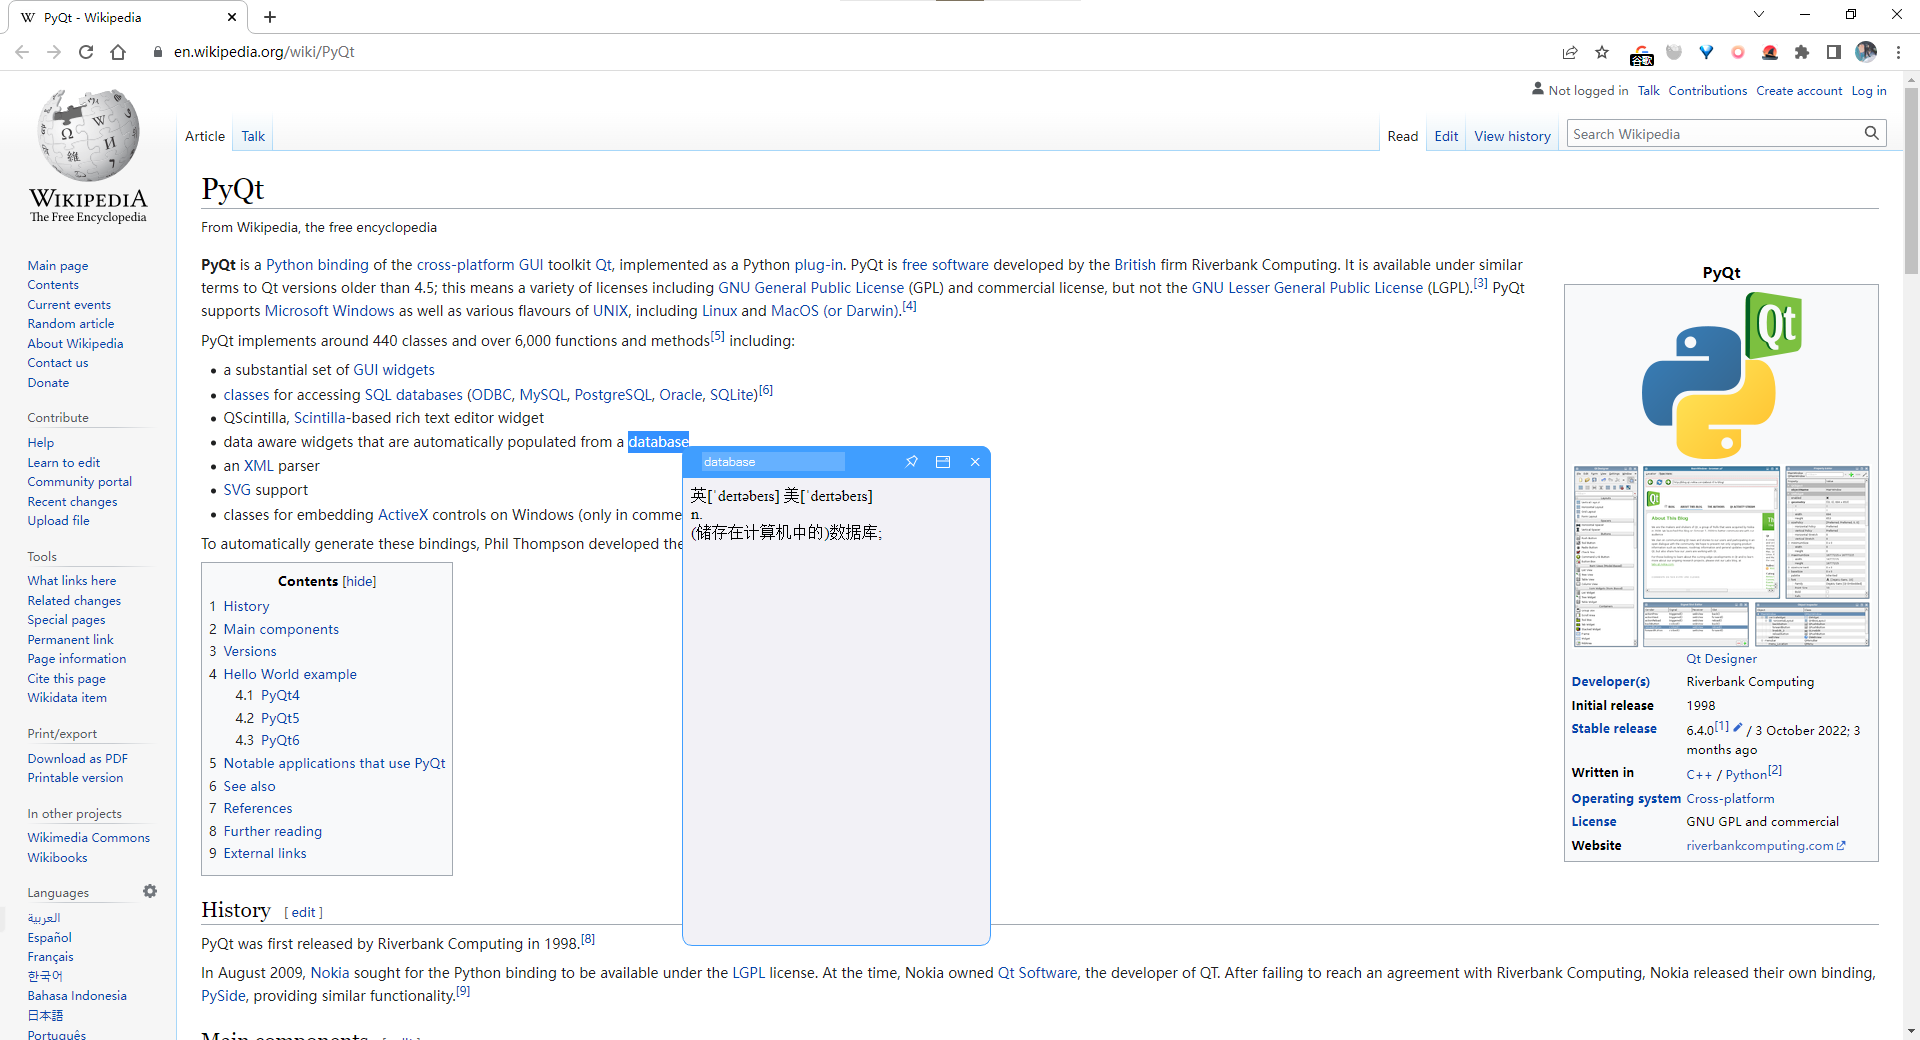
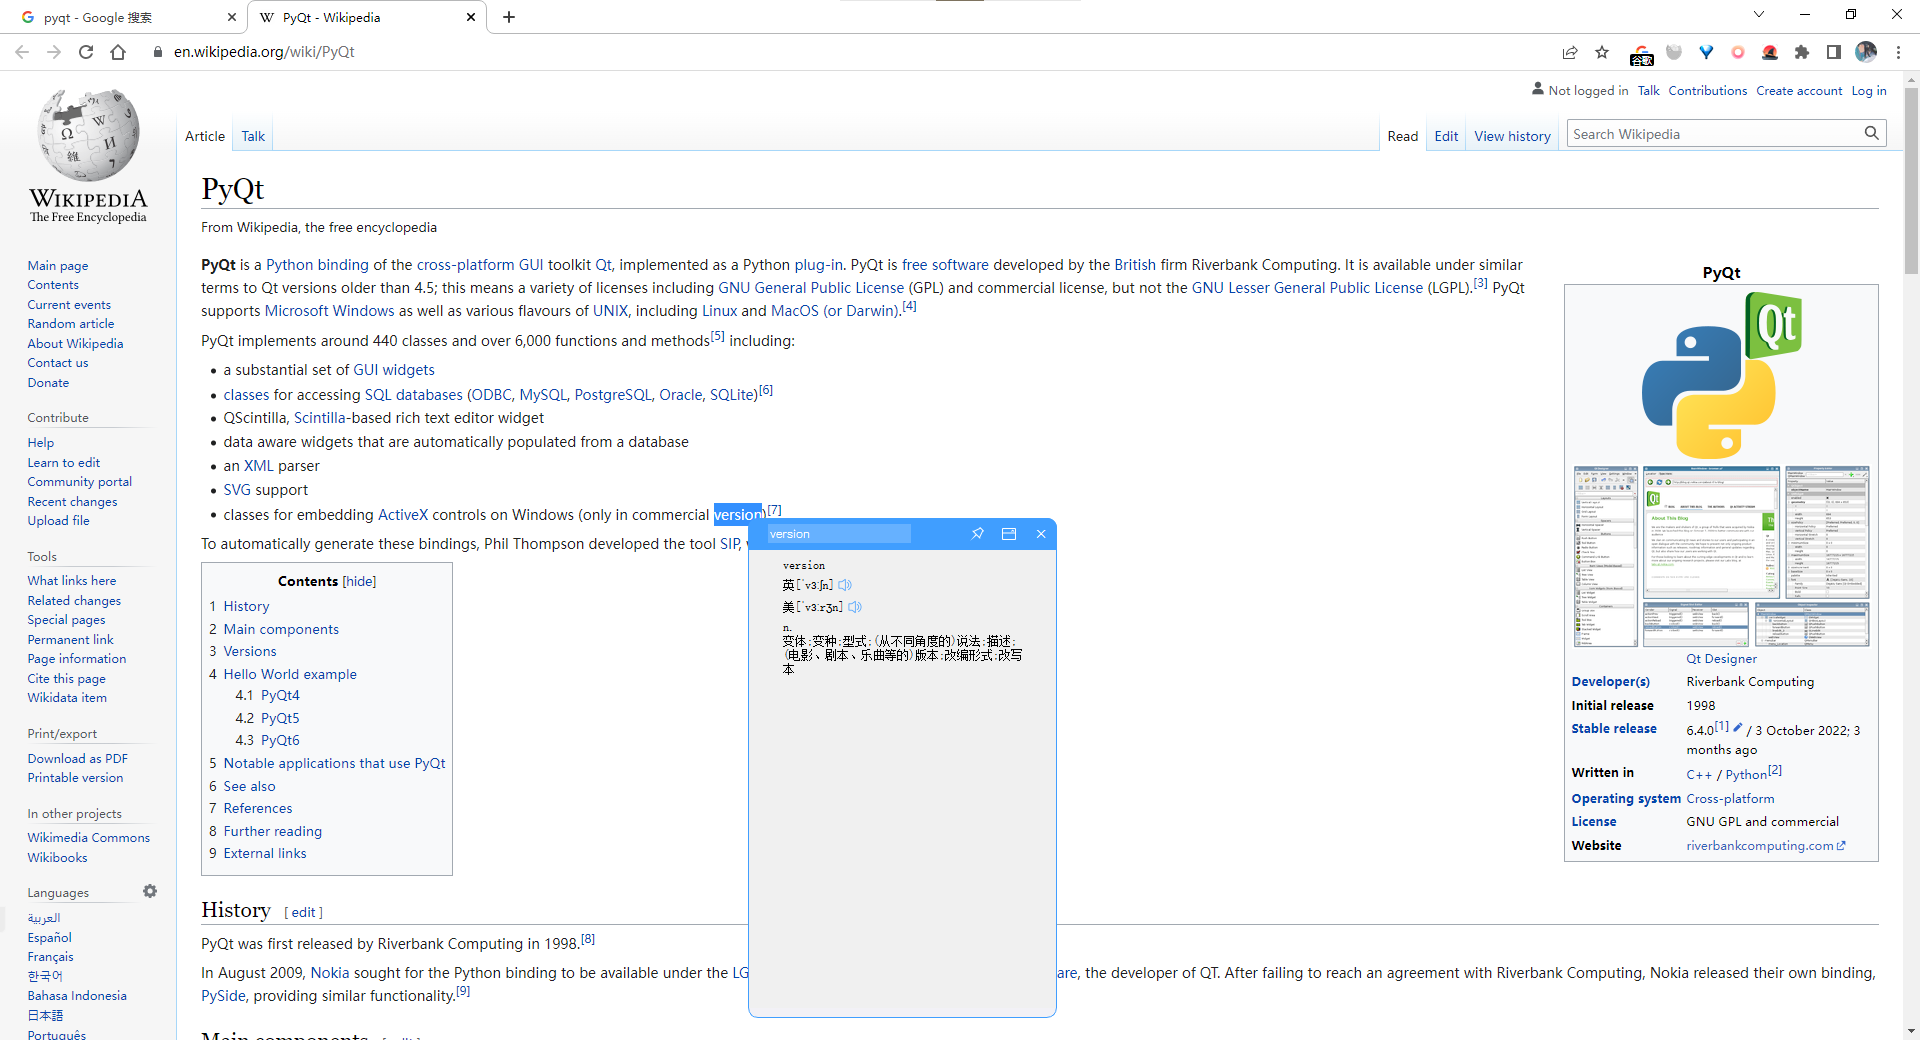
添加发音

diff --git a/core/gui.py b/core/gui.py
@@ -5,8 +5,7 @@ import keyboard
 import mouse
 import pyperclip
 from PyQt5.QtCore import Qt, QRunnable, QThreadPool, pyqtSlot, pyqtSignal, QPoint, QRect
-from PyQt5.QtGui import QIcon, QPixmap, QColor
-from PyQt5.QtWebEngineWidgets import QWebEngineView
+from PyQt5.QtGui import QIcon, QPixmap
 from PyQt5.QtWidgets import QLineEdit, QSystemTrayIcon, QMainWindow, QApplication
 from pyqtkeybind import keybinder
 
@@ -18,6 +17,7 @@ from core.widgets.ILineEdit import ILineEdit
 from core.widgets.IMenu import IMenu
 from core.widgets.IPage import IPage
 from core.widgets.ISwitch import ISwitch
+from core.widgets.ResultWidget import ResultWidget, AudioButton
 
 
 class MainWindow(QMainWindow):
@@ -57,13 +57,14 @@ class MainWindow(QMainWindow):
 
 
 class TransWindow(BaseWindow):
-    trans_signal = pyqtSignal(str, str, int, int)
+    trans_signal = pyqtSignal(str, dict, int, int)
 
     def __init__(self):
         self.input_edit = QLineEdit()
         super().__init__(title_bar_slot=self.input_edit)
         self.fix_btn = self.addTitleBarButton(icon=utils.get_resources_path('固定_line.svg'))
-        self.result_view = QWebEngineView()
+        self.result_widget = ResultWidget(audio_btn_color=AudioButton.BLUE)
+        self.audio_btn_color = None
         self.thread_pool = QThreadPool(self)
         self.thread_pool.setMaxThreadCount(1)
         self.trans_loader = None
@@ -102,27 +103,24 @@ class TransWindow(BaseWindow):
         def fix_button_on_click():
             self.setFixNotHidden(not self.fix_not_hidden)
 
-        self.result_view.setProperty('class', 'trans-result-label')
-        self.result_view.setHtml('')
-        self.result_view.page().setBackgroundColor(QColor('#f2f1f6'))
         self.input_edit.setProperty('class', 'trans-input-edit')
         page = IPage()
-        page.addWidget(self.result_view)
+        page.addWidget(self.result_widget)
         self.setPage(page)
 
     def hide(self) -> None:
         self.setFixNotHidden(False)
         self.input_edit.clear()
-        self.result_view.setHtml('')
         self.content_widget.hide()
         BaseWindow.hide(self)
 
-    @pyqtSlot(str, str, int, int)
-    def show_trans(self, input_text, trans_result, x, y):
+    @pyqtSlot(str, dict, int, int)
+    def show_trans(self, input_text, result_dict, x, y):
+        print('Ohhhh')
         self.input_edit.setText(input_text)
         self.input_edit.clearFocus()
         self.content_widget.setHidden(input_text == '')
-        self.result_view.setHtml(trans_result)
+        self.result_widget.setResult(result_dict)
         if not self.fix_not_hidden:
             self.move(x, y)
         self.show()
@@ -166,11 +164,11 @@ class TransLoader(QRunnable):
             current_txt = pyperclip.paste()
             pyperclip.copy(former_copy)  # 还原剪切版
         current_txt = current_txt.strip().replace('\n', ' ')
-        trans_result = ''
         if current_txt == '':  # 只显示title_bar, 不翻译
             self.geometry.setHeight(BaseWindow.title_bar_height)
+            result_dict = {}
         else:
-            trans_result = baidu_trans(current_txt)
+            result_dict = baidu_trans(current_txt)
 
         desktop_geometry = QApplication.desktop().availableGeometry()
 
@@ -179,7 +177,7 @@ class TransLoader(QRunnable):
         # 0 <= show_y <= desktop_height - window_height
         show_y = max(0, min(self.geometry.y() + 10, desktop_geometry.height() - self.geometry.height()))
 
-        self.trans_signal.emit(current_txt, trans_result, show_x, show_y)
+        self.trans_signal.emit(current_txt, result_dict, show_x, show_y)
 
 
 class SettingWindow(BaseWindow):

diff --git a/core/api.py b/core/api.py
@@ -6,49 +6,105 @@ URL_LANG_DETECT = 'https://fanyi.baidu.com/langdetect'
 URL_TRANS = 'https://fanyi.baidu.com/transapi'
 URL_VOICE = 'https://fanyi.baidu.com/gettts'
 
+'''
+翻译返回数据结构体
+单词:
+{
+    type: 1
+    text: 'word', 
+    voice: [
+        {
+            pron: 'xx', # 音标/假名
+            url: 'url'
+        },
+        {
+            pron: 'xx', 
+            url: 'url'
+        },
+    ], 
+    pre: [  # 词性
+            {
+                title: 'n', 
+                trans: ['xx', 'yy', 'zz']   # 释义list
+            },
+            {
+                title: 'v', 
+                trans: [...]
+            }
+    ]
+}
+
+句子:
+{
+    type: 2
+    text: 'xxx yyy zzz', 
+    trans: '喔喔喔喔'
+    voice: [
+        {
+            url: 'url'
+        }
+    ]
+}
+'''
+
 
 def baidu_lang_detect(text):
-    lan = utils.post(URL_LANG_DETECT, data={'query': text}).json()['lan']
+    lan = utils.request_post(URL_LANG_DETECT, data={'query': text}).json()['lan']
     if lan != 'en':
         lan = 'jp'
     return lan
 
 
 def baidu_trans(text):
-    resp = utils.post(URL_TRANS, data={
+    resp = utils.request_post(URL_TRANS, data={
         'from': baidu_lang_detect(text),
         'to': 'zh',
         'query': text,
         'source': 'txt'
     }).json()
     resp_type = resp['type']
+    result_body = None
     if resp_type == 1:
-        trans_result = ''
+        result_body = {'type': 1, 'text': text}
         result = json.loads(resp['result'])
         voice = result.get('voice')
         if voice is not None:
-            trans_result += f"英{voice[0]['en_phonic']} "
-            trans_result += f"美{voice[1]['us_phonic']}<br/>"
+            result_body['voice'] = [{
+                'pron': f"英{voice[0]['en_phonic']}",
+                'url': f'https://fanyi.baidu.com/gettts?lan=uk&text={text}&spd=3&source=web'
+            }, {
+                'pron': f"美{voice[1]['us_phonic']}",
+                'url': f'https://fanyi.baidu.com/gettts?lan=en&text={text}&spd=3&source=web'
+            }]
         mean = result['content'][0]['mean']
+        result_body['pre'] = []
         for m in mean:
-            trans_result += f"{m.get('pre', '')}<br/>"
-            for cont in m['cont']:
-                trans_result += f"{cont};"
-            trans_result += "<br/>"
-        return trans_result
+            result_body['pre'].append({
+                'title': m.get('pre', ''),
+                'trans': m.get('cont')
+            })
+
     elif resp_type == 2:
-        return resp['data'][0]['dst']
-    else:
-        raise Exception('what?! type!!!!')
+        result_body = {
+            'type': 2,
+            'text': text,
+            'trans': resp['data'][0]['dst'],
+            'voice': [
+                {
+                    'url': f'https://fanyi.baidu.com/gettts?lan=en&text={text}&spd=3&source=web'
+                }
+            ]
+        }
+    return result_body
 
 
 def baidu_get_voice(text, lan='en'):
-    return utils.post(URL_VOICE, data={
+    return utils.request_post(URL_VOICE, data={
         'lan': lan,
         'text': text,
         'spd': 3,
         'source': 'web'
-    }).json()
+    }).content
 
 
 dict_list = [

diff --git a/core/widgets/ResultWidget.py b/core/widgets/ResultWidget.py
@@ -1,0 +1,80 @@
+from PyQt5.QtCore import QUrl
+from PyQt5.QtGui import QIcon, QPixmap
+from PyQt5.QtMultimedia import QMediaPlayer, QMediaContent
+from PyQt5.QtWidgets import QWidget, QVBoxLayout, QLabel, QHBoxLayout, QPushButton
+
+from core import utils
+
+
+class AudioButton(QWidget):
+
+    def __init__(self, url: str, color, text: str = ''):
+        super().__init__()
+
+        player = QMediaPlayer()
+        player.setMedia(QMediaContent(QUrl(url)))
+        player.setVolume(50)
+
+        label = QLabel(text)
+
+        btn = QPushButton()
+        if color is None:
+            color = self.BLUE
+        btn.setIcon(QIcon(QPixmap(utils.get_resources_path(f'audio-{color}.svg'))))
+        btn.setStyleSheet('border: none;')
+
+        @btn.clicked.connect
+        def slot():
+            player.play()
+
+        layout = QHBoxLayout()
+        layout.setContentsMargins(0, 0, 0, 0)
+        layout.setSpacing(0)
+        layout.addWidget(label)
+        layout.addWidget(btn)
+        layout.addStretch(1)
+        self.setLayout(layout)
+
+    BLUE = 'blue'
+    RED = 'red'
+
+
+class ResultWidget(QWidget):
+    def __init__(self, result_dict: dict = None, audio_btn_color: str = AudioButton.BLUE):
+        super().__init__()
+        self.audio_btn_color = audio_btn_color
+        self.layout = QVBoxLayout()
+        self.setLayout(self.layout)
+        self.text_label = QLabel()
+        self.text_label.setWordWrap(True)
+        self.layout.addWidget(self.text_label)
+        self.audio_buttons = []
+        self.trans_result_label = QLabel()
+        self.trans_result_label.setWordWrap(True)
+        self.layout.addWidget(self.trans_result_label)
+        self.layout.addStretch(1)
+        self.setResult(result_dict)
+
+    def setResult(self, result_dict: dict):
+        if not result_dict:
+            return
+
+        self.text_label.setText(result_dict.get('text'))
+
+        for btn in self.audio_buttons:
+            self.layout.removeWidget(btn)
+        self.audio_buttons = []
+        if result_dict.get('voice'):
+            for index, voice in enumerate(result_dict.get('voice')):
+                audio_btn = AudioButton(voice.get('url'), self.audio_btn_color, voice.get('pron', ''))
+                self.audio_buttons.append(audio_btn)
+                self.layout.insertWidget(index + 1, audio_btn)
+
+        if result_dict.get('type') == 1:
+            trans_result = ''
+            for pre in result_dict.get('pre'):
+                trans_result += f"{pre.get('title')}\n"
+                trans_result += f"{';'.join(pre.get('trans'))}\n"
+            self.trans_result_label.setText(trans_result)
+        else:
+            self.trans_result_label.setText(result_dict.get('trans'))

diff --git a/core/utils.py b/core/utils.py
@@ -47,7 +47,11 @@ def get_proxies():
     return {'https': url} if url else None
 
 
-def post(url, data=None, json=None):
+def request_get(url, params=None):
+    return requests.get(url, params)
+
+
+def request_post(url, data=None, json=None):
     return requests.post(url, data, json, headers={
         'User-Agent': 'Mozilla/5.0 (Windows NT 10.0; Win64; x64) AppleWebKit/537.36 (KHTML, like Gecko) Chrome/54.0.2840.99 Safari/537.36'
     }, proxies=get_proxies())

diff --git a/readme.md b/readme.md
@@ -7,10 +7,8 @@
 
 ## TODO:
 
-- 发音
 - 添加Moji辞典
 - 接入Anki
-- 添加英文词典+例句
 
 ## Bugs
 
